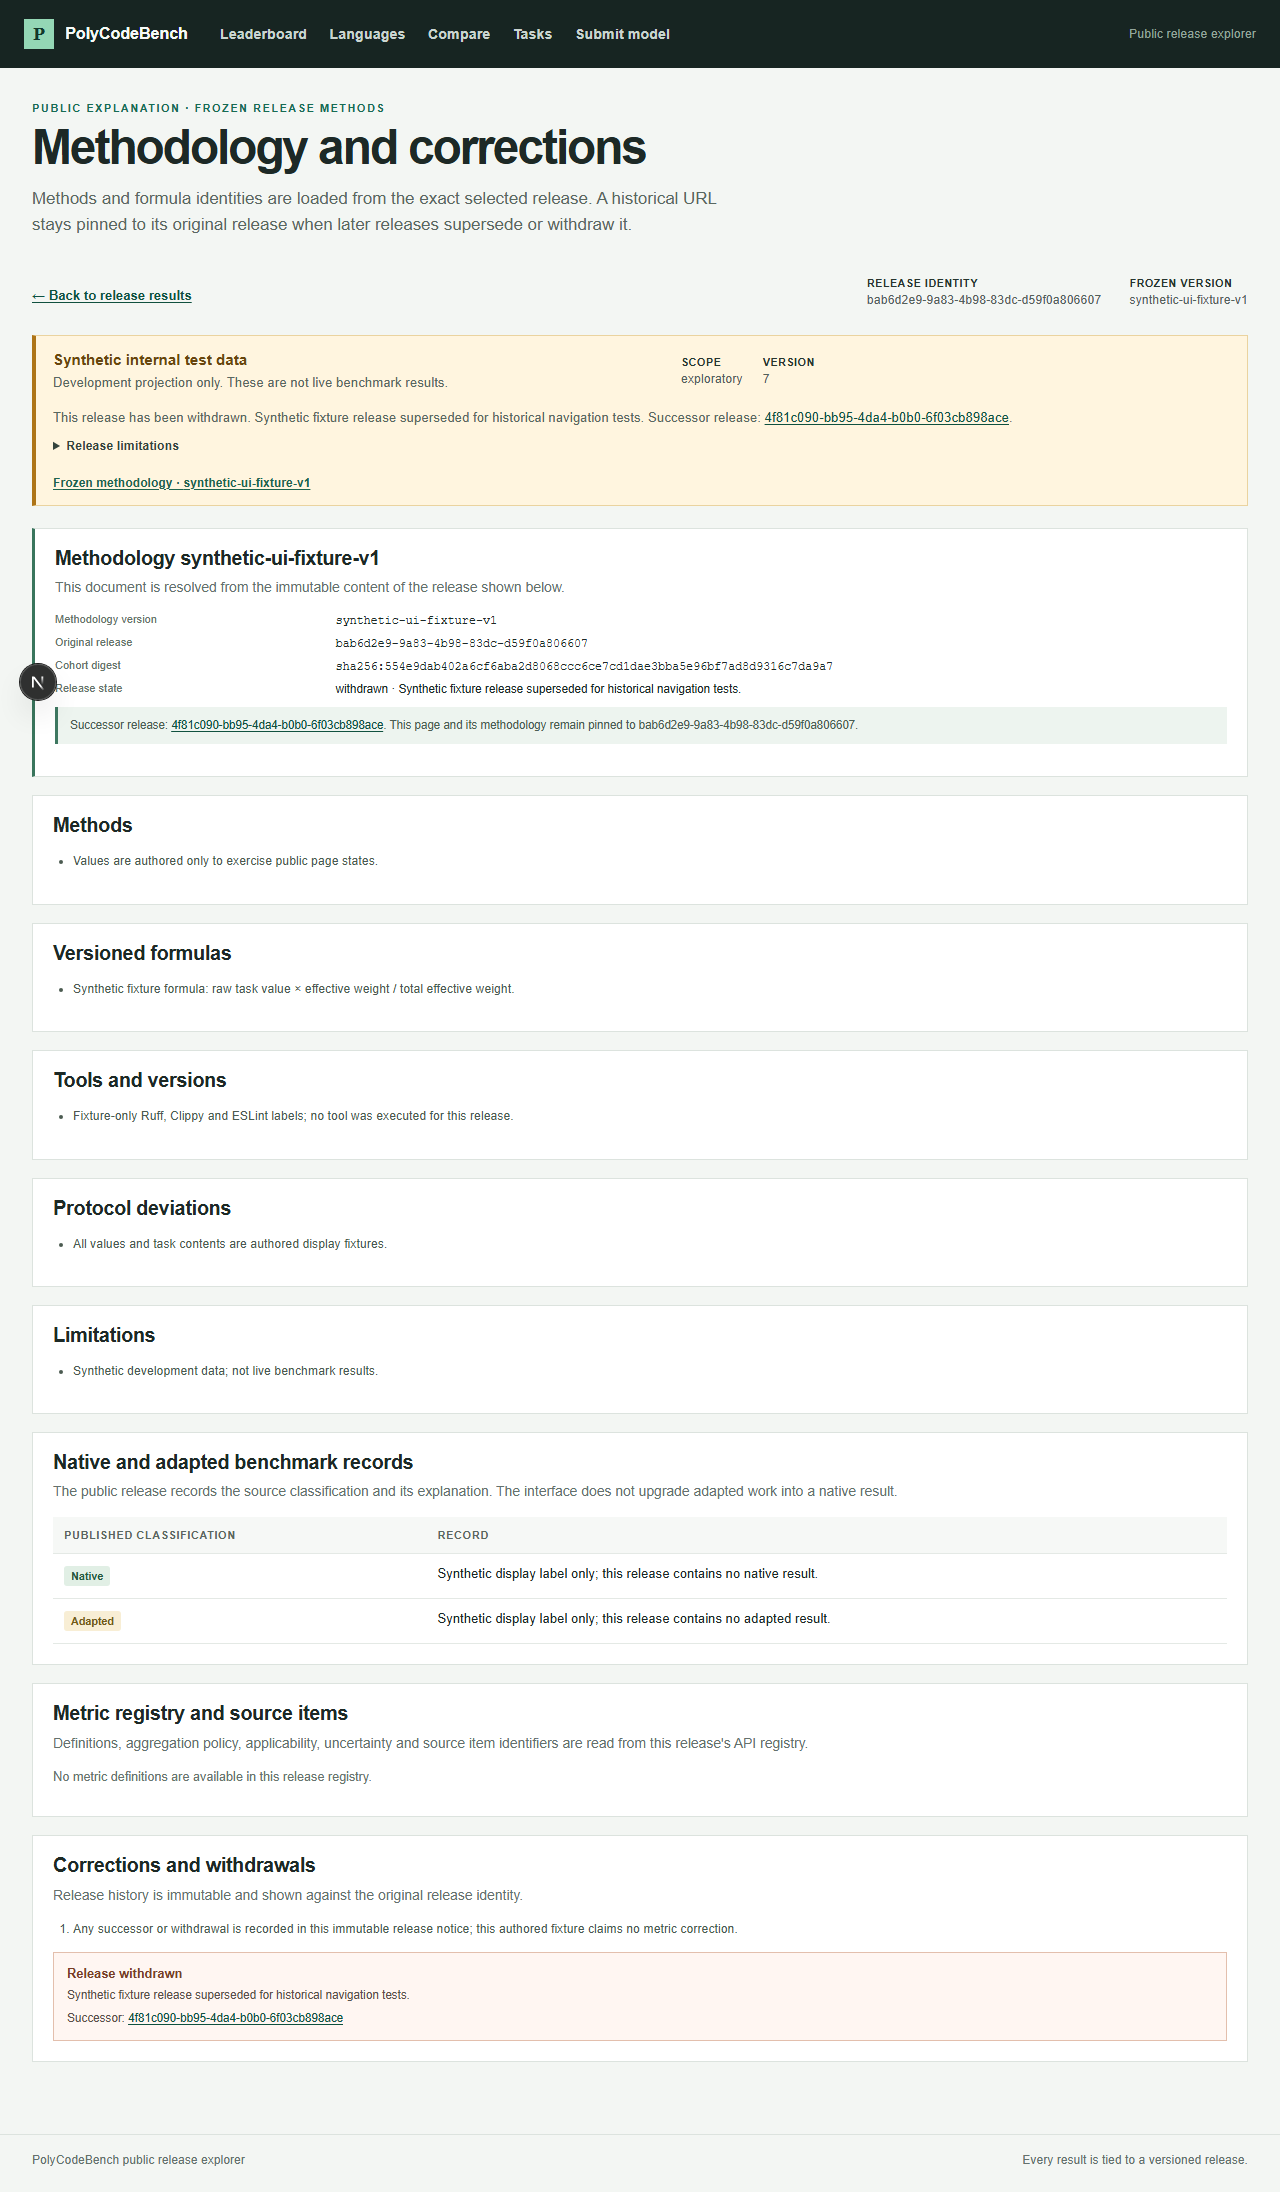
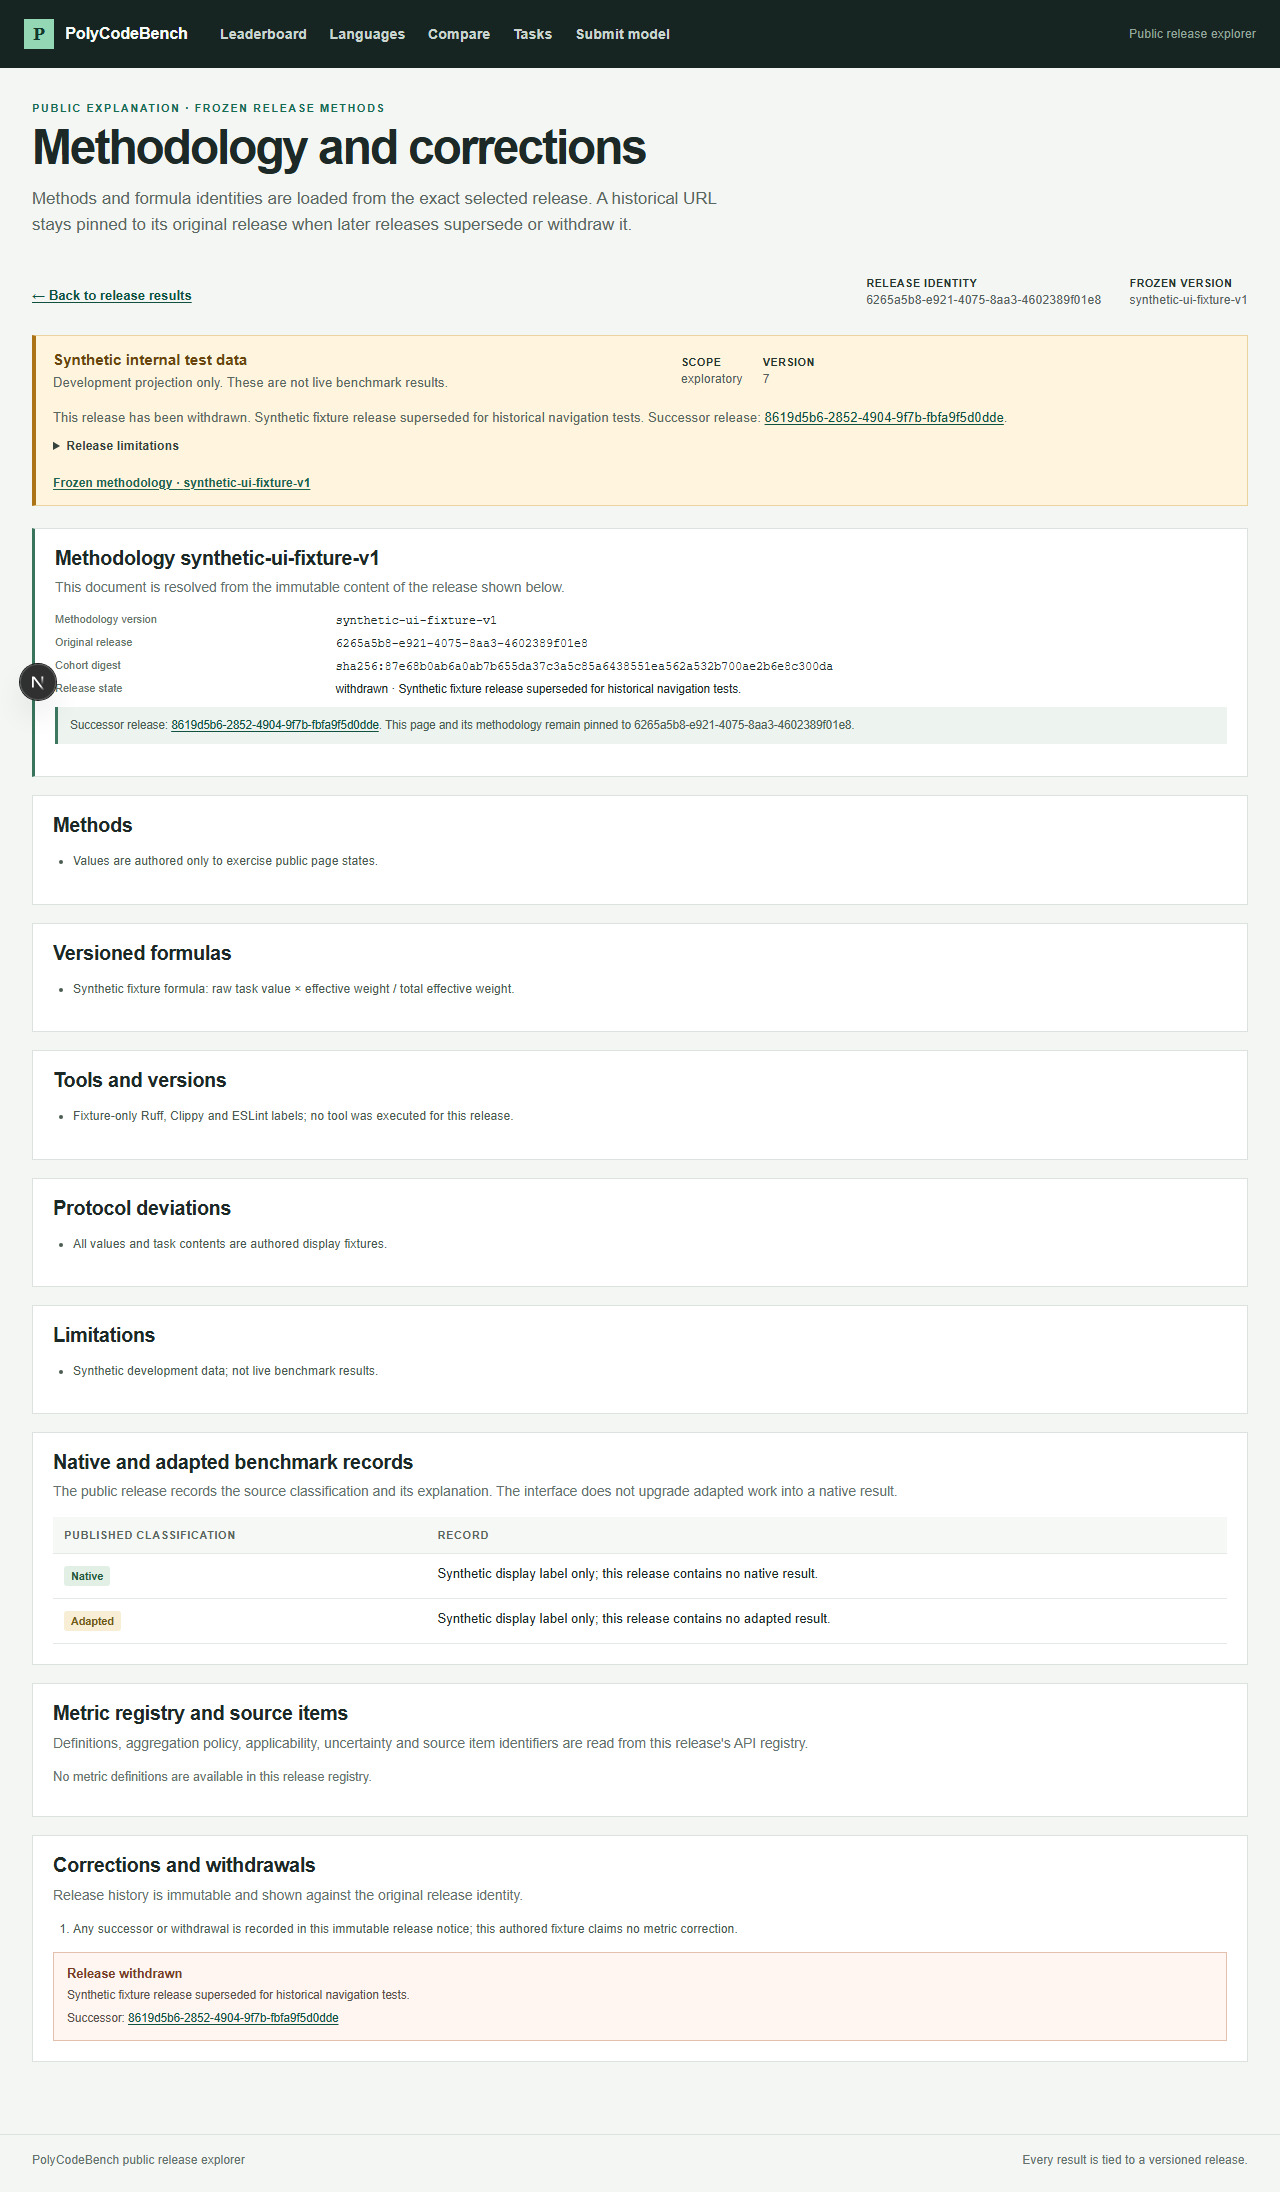
test(web): refresh synthetic public flow evidence

diff --git a/docs/implementation/reports/prompt-33.md b/docs/implementation/reports/prompt-33.md
@@ -74,6 +74,7 @@
 - Added an opt-in local solve-worker assembly using the existing lease/heartbeat service, solve executor, frozen task runtime, gateway budget/ledger, verified internal artifacts and the network-disabled local Docker sandbox. The slot accepts only a canonical, digest-pinned resource document whose image digest matches the frozen task version. The production path still needs its separate guest provider and service identities.
 - Extended the local bootstrap with a separate `pcb_local_worker` login, explicit-false setup/dispatch flags and 64 MiB/1 GiB internal artifact quotas. Bootstrapped and registered one `local-fixture-small` worker against the loopback PostgreSQL/SeaweedFS stack; a repeated registration reused the existing worker/config. A one-shot run with a process-only dispatch opt-in found zero matching queued jobs and claimed none. Gateway intent/delivery counts remained zero. Evidence: `docs/implementation/evidence/prompt-33/local-solve-worker-2026-10-06.json`.
 - Worker verification: 8 focused unit/bootstrap tests pass; `tests/test_jobs_postgres.py` 8 passed/1 opt-in Docker skip; `tests/test_persistence_postgres.py` 4 passed; `tests/test_public_api_submissions_postgres.py` 4 passed using the restricted API role and separate migration identity. Ruff and strict mypy pass for changed production Python. The wheel-installed `pcb-worker --help` command starts successfully.
+- Fresh public-flow browser rerun: Prompt 30 4/4, Prompt 31 3/3, Prompt 32 2/2. Results and refreshed screenshots are in the existing prompt evidence directories; each result file omits the machine-local Node executable path, and pages show synthetic test data only.
 - No endpoint was configured, no model was installed or called, no model was downloaded, and no cloud resource or public benchmark result was created. Judge/evaluation/scoring/publication processors and a production worker runtime remain open.
 
 Decisions: D-33-01 to D-33-08 in `docs/implementation/decisions.md`. D-33-03 and D-33-04 are resolved in the current tree; staging authorization remains open.
